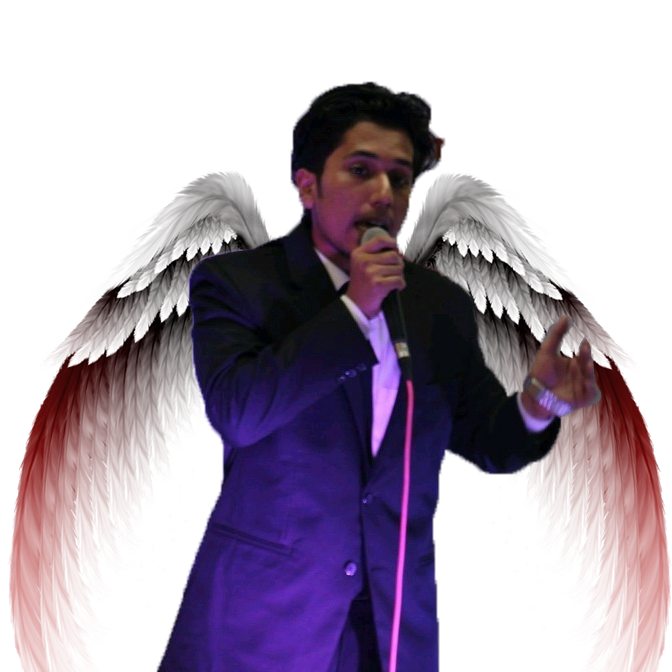
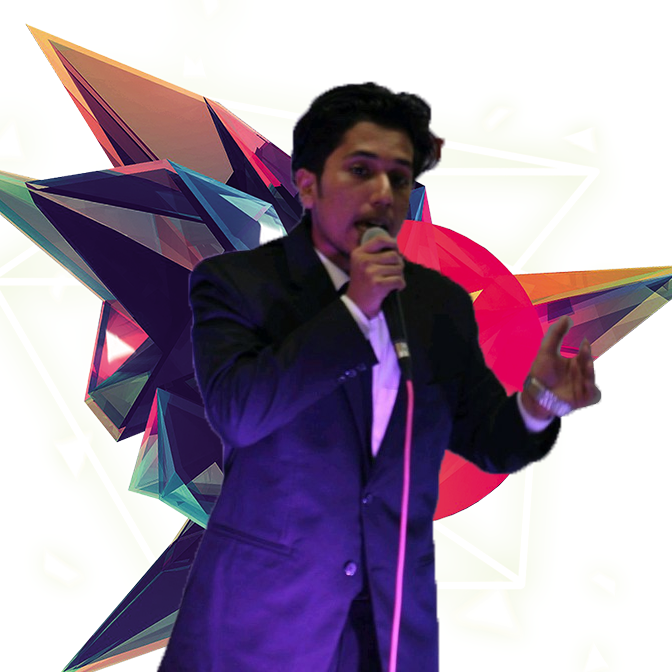
7 januuary

diff --git a/index.html b/index.html
@@ -15,7 +15,7 @@
 </head>
 
 <body>
-    <section class="bgnokta">
+    <section class="sec01">
         <div class="half">
             <h1 class="navy">Hi !!!</h1>
             <h1 class="name1">Khaled Redwan (Rafsan)</h1>
@@ -41,7 +41,7 @@
         </div>
         <div class="half">
             <h2>why salesman ??? </h2>
-            <h2>why in Information & Technology !!! </h2>
+            <h2>why am i in Technical Sales !!! </h2>
             <p>After Graduation from Notre Dame University Bangladesh, I had done my internship at NEW GEN SOLUTIONS
                 LIMITED. After 6th Month later I got the job there as a " web developer and data analytics specialist".
                 Being a web developer I had to meet with client. These client relation and communication skills made

diff --git a/style.css b/style.css
@@ -35,7 +35,13 @@ section{
     font-weight: 300;
     border-radius: 5px;
 }
-.bgnokta{
+.sec01{
     background-image: url(images/top-banner.png);
     background-repeat: no-repeat;
+}
+.sec2{
+    background-image: url(images/dream-bg.png);
+    background-repeat: no-repeat;
+    background-position: right;
+
 }
